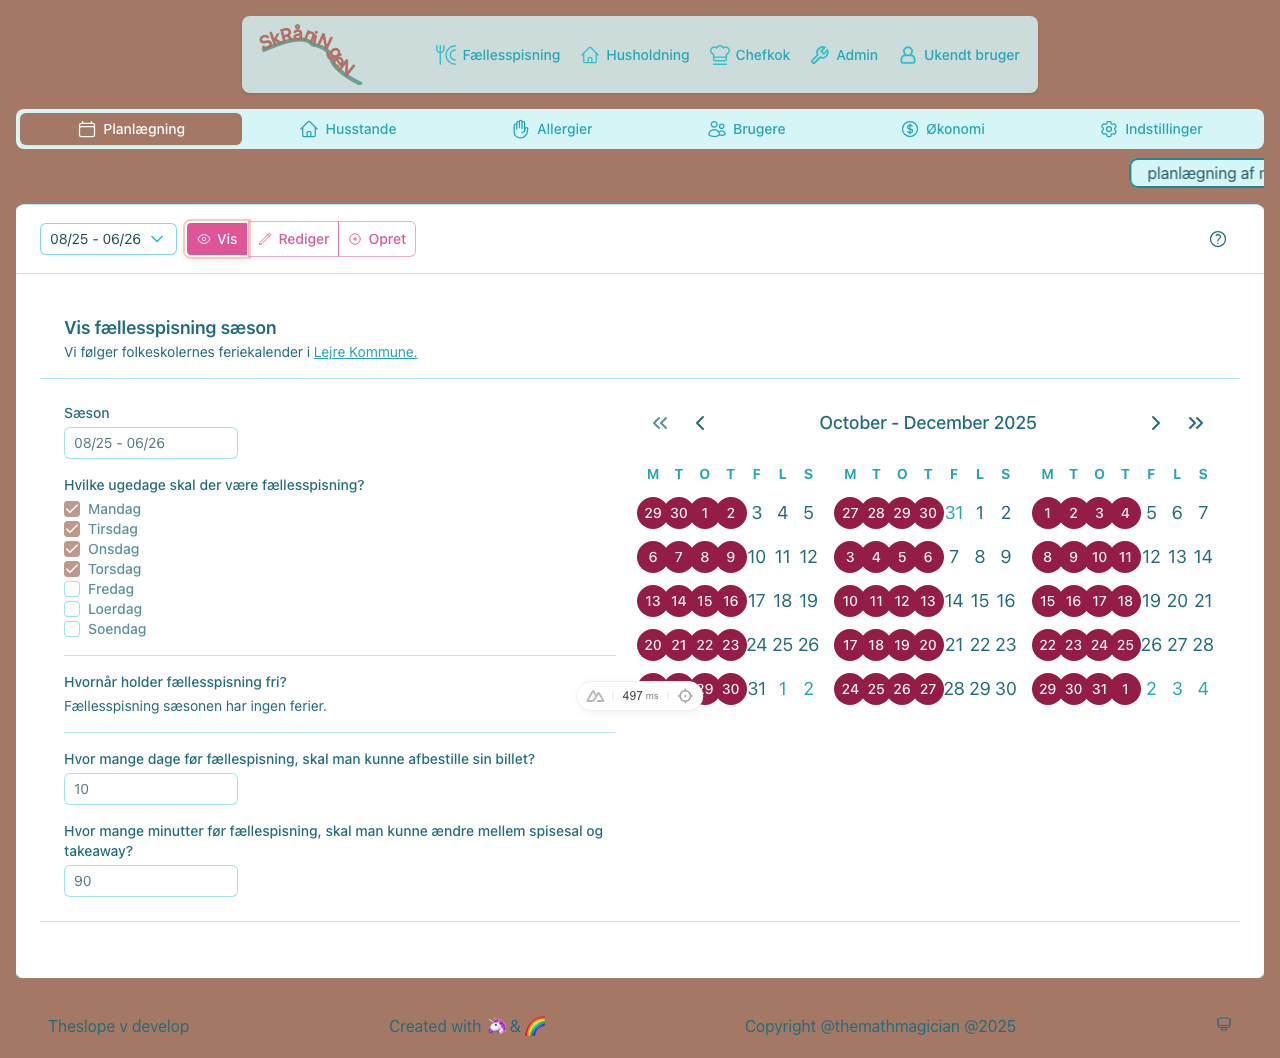
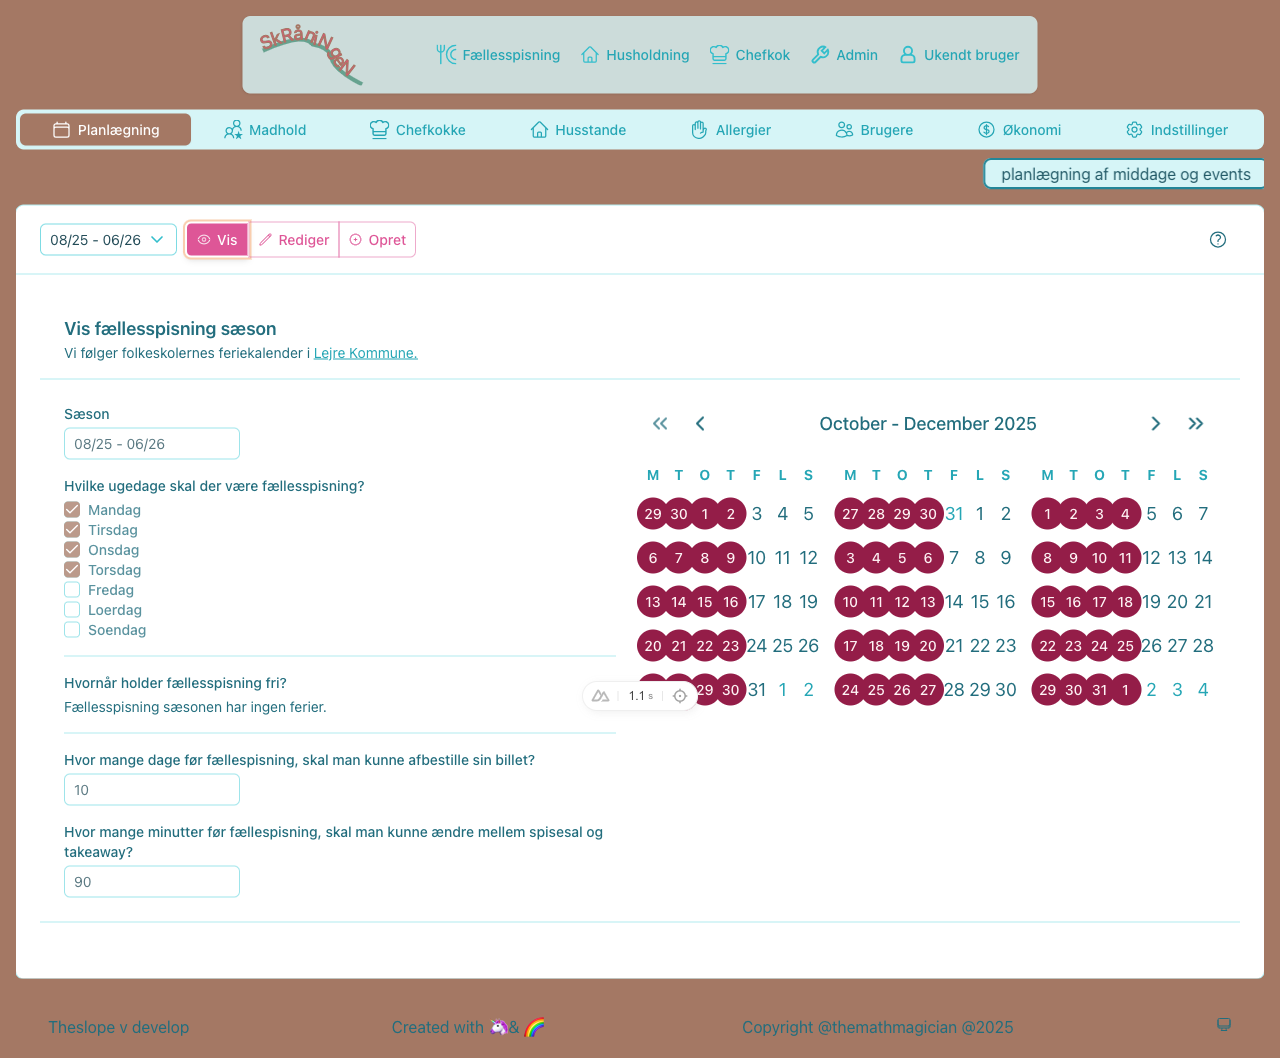
Added components to admin page for chefs and teams

diff --git a/app/pages/admin/[tab].vue b/app/pages/admin/[tab].vue
@@ -19,13 +19,13 @@ const baseItems = [
     label: 'Madhold',
     icon: 'i-fluent-mdl2-team-favorite',
     content: 'Oprette madhold i given sæson og administrere madhold. Tildele madhold til madlavningsdage. Tildele medlemmer til madhold',
-    component: 'AdminPlanningTeams'
+    component: 'AdminTeams'
   },
   {
     label: 'Chefkokke',
     icon: 'i-streamline-food-kitchenware-chef-toque-hat-cook-gear-chef-cooking-nutrition-tools-clothes-hat-clothing-food',
     content: 'Se og administrer chefkokke. Tildele chefkokke til madlavningsdage',
-    component: 'AdminPlanningChefs'
+    component: 'AdminChefs'
   },
   {
     label: 'Husstande',

diff --git a/app/components/admin/AdminTeams.vue b/app/components/admin/AdminTeams.vue
@@ -1,0 +1,15 @@
+<script setup lang="ts">
+</script>
+
+<template>
+  <UCard data-test-id="admin-teams">
+    <template #header>
+      <h1 class="text-3xl font-bold">Madhold</h1>
+    </template>
+    <h2 class="text-2xl font-bold mb-4">Madhold</h2>
+    <p>Administrer madhold her.</p>
+    <p>Opret madhold i sæson.</p>
+    <p>Tildel madhold til madlavningsdage.</p>
+    <p>Tildel medlemmer til madhold.</p>
+  </UCard>
+</template>

diff --git a/app/components/admin/AdminChefs.vue b/app/components/admin/AdminChefs.vue
@@ -1,0 +1,6 @@
+<template>
+  <div data-test-id="admin-chefs">
+    <h2 class="text-2xl font-bold mb-4">Chefs</h2>
+    <p>Manage chefs here.</p>
+  </div>
+</template>

diff --git a/app/components/admin/AdminEconomy.vue b/app/components/admin/AdminEconomy.vue
@@ -1,6 +1,5 @@
 <template>
   <div data-test-id="admin-economy">
     <h1>Økonomi</h1>
-    Økonomi
   </div>
 </template>
